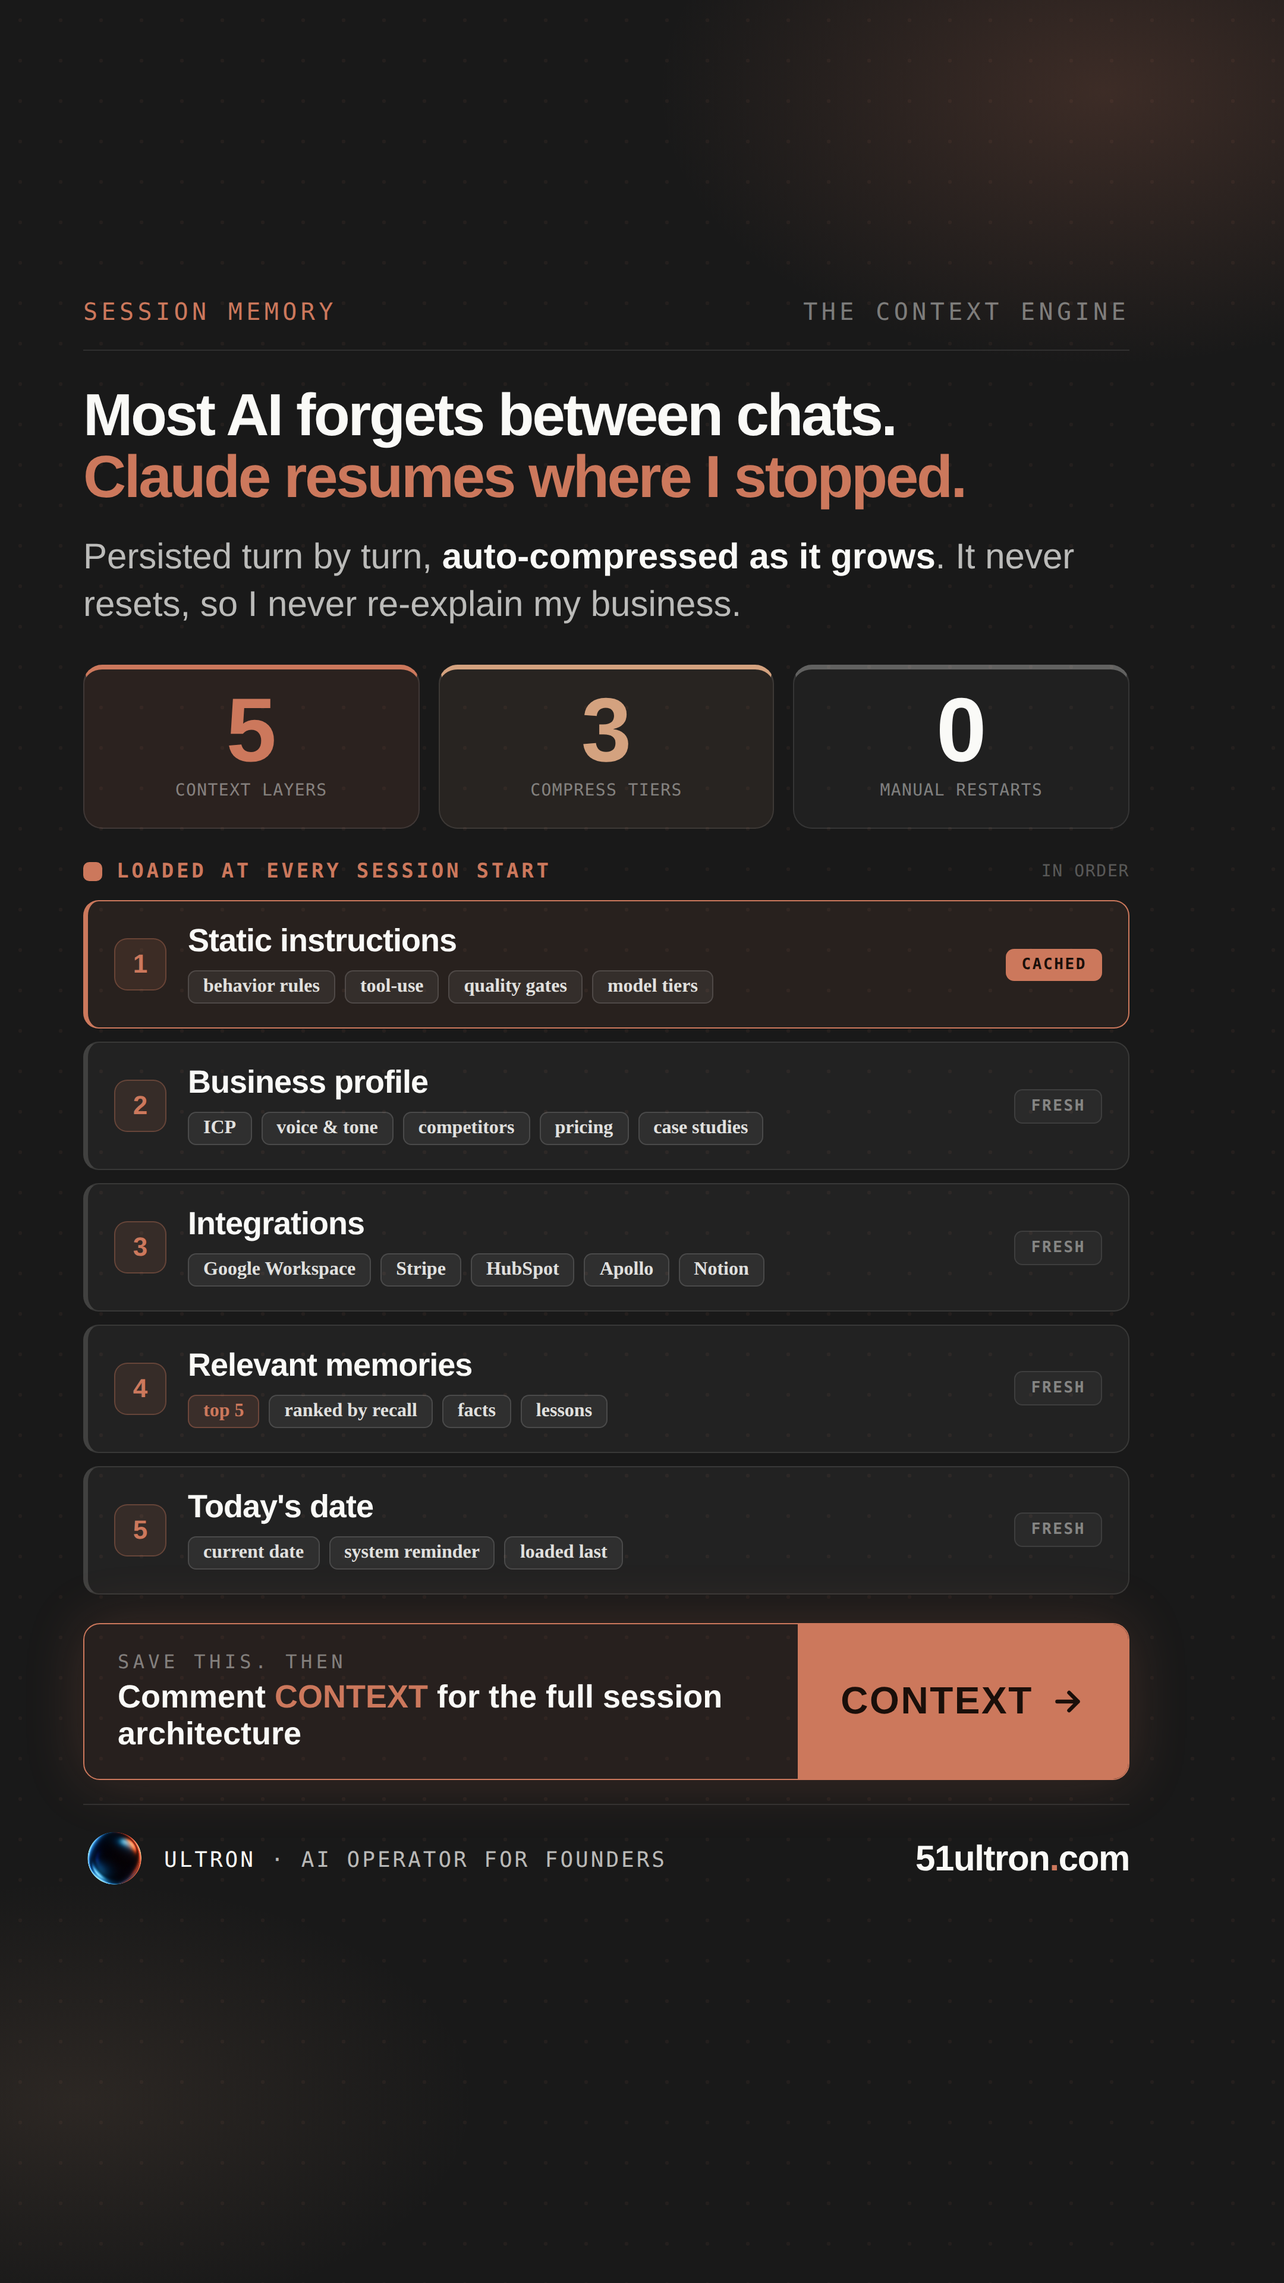
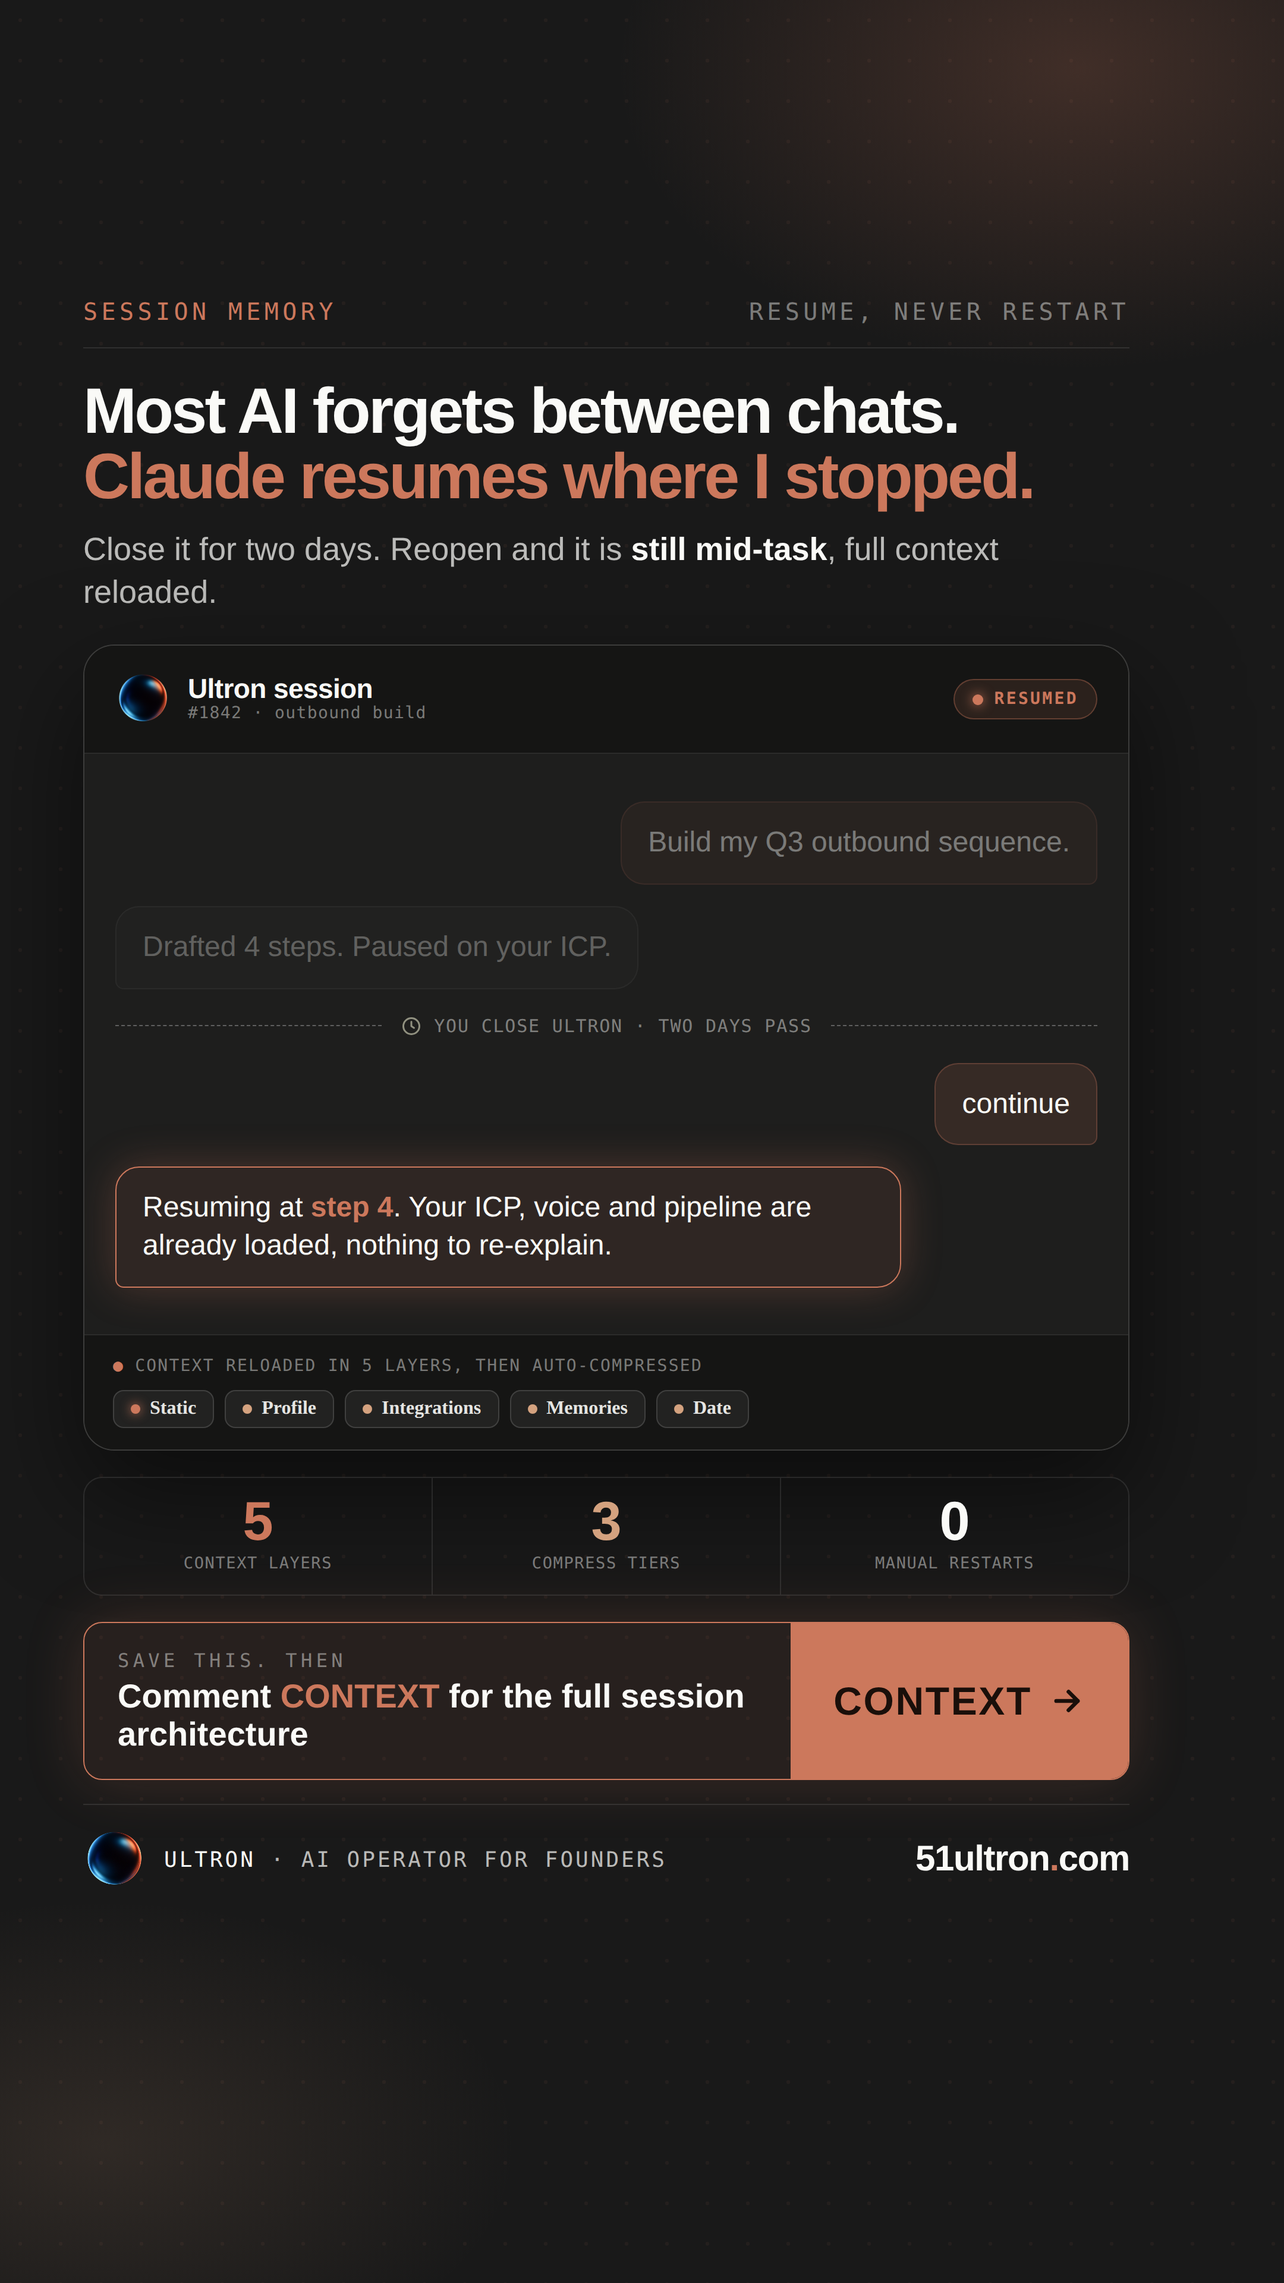
content: docs-10 TikTok infographic - redesign as a visual chat-session mockup
The dry table did not work for TikTok. Replaced with a chat-session mockup that
shows the story: faded history, a 'you close Ultron, two days pass' gap, then a
glowing live bubble resuming at step 4 with context already loaded. Chat footer
shows the 5 context layers as pills + auto-compressed; stat strip 5/3/0. Visual,
on-concept, safe box respected, mast at 250.

diff --git a/content/docs-10-sessions-tiktok-infographic.html b/content/docs-10-sessions-tiktok-infographic.html
@@ -4,64 +4,71 @@
 body{background:#0d0d0d;display:flex;justify-content:center;font-family:'DM Sans',sans-serif;-webkit-font-smoothing:antialiased;}
 .slide{width:1080px;height:1920px;background:var(--slate);position:relative;overflow:hidden;color:var(--ivory);}
 .slide::before{content:'';position:absolute;inset:0;pointer-events:none;z-index:0;background-image:radial-gradient(rgba(204,120,92,.06) 1.5px,transparent 1.6px);background-size:34px 34px;}
-.atm{position:absolute;inset:0;pointer-events:none;z-index:1;background:radial-gradient(ellipse 58% 20% at 86% 4%,rgba(204,120,92,.2) 0%,transparent 60%),radial-gradient(ellipse 52% 16% at 6% 92%,rgba(212,162,127,.1) 0%,transparent 60%);}
+.atm{position:absolute;inset:0;pointer-events:none;z-index:1;background:radial-gradient(ellipse 60% 22% at 84% 3%,rgba(204,120,92,.22) 0%,transparent 60%),radial-gradient(ellipse 54% 18% at 8% 94%,rgba(212,162,127,.12) 0%,transparent 60%);}
 .safe{position:absolute;top:250px;left:70px;right:130px;bottom:330px;z-index:2;display:flex;flex-direction:column;}
-.mast{flex-shrink:0;display:flex;align-items:center;justify-content:space-between;border-bottom:1px solid var(--rule);padding-bottom:20px;font-family:'DM Mono',monospace;font-size:20px;font-weight:500;letter-spacing:.16em;text-transform:uppercase;}
+.mast{flex-shrink:0;display:flex;align-items:center;justify-content:space-between;border-bottom:1px solid var(--rule);padding-bottom:18px;font-family:'DM Mono',monospace;font-size:20px;font-weight:500;letter-spacing:.16em;text-transform:uppercase;}
 .mast .ml{color:var(--book);}.mast .mr{color:var(--ink46);}
-.hook{flex-shrink:0;margin-top:28px;font-weight:900;font-size:50px;line-height:1.04;letter-spacing:-1.7px;color:var(--ivory);}.hook em{color:var(--book);font-style:normal;}
-.sub{flex-shrink:0;margin-top:22px;font-size:30px;font-weight:500;line-height:1.34;color:var(--ink70);}.sub b{color:var(--ivory);font-weight:700;}
-.statrow{flex-shrink:0;margin-top:30px;display:grid;grid-template-columns:repeat(3,1fr);gap:16px;}
-.sc{border:1px solid var(--rule);border-radius:16px;padding:22px 18px;text-align:center;}
-.sc.a{background:rgba(204,120,92,.1);border-top:4px solid var(--book);}.sc.b{background:rgba(212,162,127,.08);border-top:4px solid var(--kraft);}.sc.c{background:rgba(250,250,247,.03);border-top:4px solid var(--ink30);}
-.sc .n{font-weight:900;font-size:76px;line-height:.78;}.sc.a .n{color:var(--book);}.sc.b .n{color:var(--kraft);}.sc.c .n{color:var(--ivory);}
-.sc .l{font-family:'DM Mono',monospace;font-size:14px;font-weight:500;letter-spacing:.05em;text-transform:uppercase;color:var(--ink46);margin-top:12px;line-height:1.25;}
-.seclabel{flex-shrink:0;display:flex;align-items:center;gap:12px;margin:26px 0 14px;}
-.seclabel .sq{width:16px;height:16px;border-radius:5px;}.seclabel.s1 .sq{background:var(--book);}.seclabel.s2 .sq{background:var(--book-d);}
-.seclabel .t{font-family:'DM Mono',monospace;font-size:17px;font-weight:600;letter-spacing:.14em;text-transform:uppercase;}.seclabel.s1 .t{color:var(--book);}.seclabel.s2 .t{color:var(--book-d);}
-.seclabel .x{margin-left:auto;font-family:'DM Mono',monospace;font-size:14px;letter-spacing:.06em;text-transform:uppercase;color:var(--ink30);}
-.ctx{flex:1;min-height:0;display:flex;flex-direction:column;gap:11px;}
-.cr{flex:1;display:flex;align-items:center;gap:18px;background:rgba(250,250,247,.045);border:1px solid var(--rule);border-left:4px solid var(--ink14);border-radius:13px;padding:14px 22px;}
-.cr.hi{border-color:var(--book);border-left-color:var(--book);background:rgba(204,120,92,.09);}
-.cr .n{width:44px;height:44px;border-radius:11px;background:rgba(204,120,92,.12);border:1px solid rgba(204,120,92,.32);color:var(--book);font-weight:900;font-size:22px;display:flex;align-items:center;justify-content:center;flex-shrink:0;}
-.cr .bd{flex:1;min-width:0;}
-.cr .nm{font-weight:800;font-size:27px;letter-spacing:-.5px;color:var(--ivory);line-height:1;}
-.cr .chips{display:flex;flex-wrap:wrap;gap:8px;margin-top:11px;}
-.ch{font-family:'DM Sans';font-size:16px;font-weight:600;color:rgba(250,250,247,.9);background:rgba(250,250,247,.06);border:1px solid var(--ink14);border-radius:7px;padding:5px 12px;line-height:1;}
-.ch.k{color:var(--book);background:rgba(204,120,92,.14);border-color:rgba(204,120,92,.36);font-weight:800;}
-.cr .tg{flex-shrink:0;font-family:'DM Mono',monospace;font-size:13px;font-weight:600;letter-spacing:.1em;text-transform:uppercase;padding:6px 13px;border-radius:7px;white-space:nowrap;}
-.tg-c{color:#1a0f0a;background:var(--book);}.tg-f{color:var(--ink46);border:1px solid var(--rule);background:rgba(250,250,247,.04);}
-.cstrip{flex-shrink:0;display:grid;grid-template-columns:1fr 1fr 1fr;gap:14px;}
-.cc{border:1px solid var(--rule);border-top:4px solid var(--book);border-radius:14px;padding:20px 20px 18px;}
-.cc.cost{border-top-color:var(--book-d);background:rgba(200,70,35,.06);}
-.cc .cn{font-weight:900;font-size:60px;line-height:.78;color:var(--book);}.cc.cost .cn{color:var(--book-d);}
-.cc .cn span{font-size:15px;font-family:'DM Mono',monospace;color:var(--ink46);font-weight:600;margin-left:7px;letter-spacing:.02em;}
-.cc .ce{font-weight:800;font-size:23px;letter-spacing:-.4px;color:var(--ivory);margin-top:13px;line-height:1.02;}
-.cc .cd{font-size:16px;font-weight:500;color:var(--ink70);line-height:1.3;margin-top:8px;}
-.cta{flex-shrink:0;margin-top:24px;display:flex;align-items:stretch;border:1px solid var(--book);border-radius:14px;overflow:hidden;box-shadow:0 0 50px rgba(204,120,92,.2);}
+.hook{flex-shrink:0;margin-top:26px;font-weight:900;font-size:54px;line-height:1.02;letter-spacing:-1.9px;color:var(--ivory);}.hook em{color:var(--book);font-style:normal;}
+.sub{flex-shrink:0;margin-top:16px;font-size:27px;font-weight:500;line-height:1.32;color:var(--ink70);}.sub b{color:var(--ivory);font-weight:700;}
+/* ---- chat session mockup ---- */
+.chat{flex:1;min-height:0;margin-top:26px;display:flex;flex-direction:column;border:1px solid var(--ink14);border-radius:26px;overflow:hidden;background:#1e1e1d;box-shadow:0 36px 90px rgba(0,0,0,.5);}
+.chd{flex-shrink:0;display:flex;align-items:center;gap:15px;padding:22px 26px;border-bottom:1px solid var(--rule);background:#151514;}
+.chd .av{width:46px;height:46px;border-radius:50%;object-fit:cover;flex-shrink:0;}
+.chd .ct b{display:block;font-size:23px;font-weight:800;color:var(--ivory);letter-spacing:-.3px;line-height:1;}
+.chd .ct span{font-family:'DM Mono',monospace;font-size:14px;color:var(--ink46);letter-spacing:.05em;}
+.chd .rz{margin-left:auto;display:flex;align-items:center;gap:9px;font-family:'DM Mono',monospace;font-size:14px;font-weight:600;letter-spacing:.12em;text-transform:uppercase;color:var(--book);background:rgba(204,120,92,.12);border:1px solid var(--book-bd,rgba(204,120,92,.34));padding:8px 15px;border-radius:30px;}
+.chd .rz i{width:9px;height:9px;border-radius:50%;background:var(--book);box-shadow:0 0 10px var(--book);}
+.cbody{flex:1;min-height:0;padding:26px;display:flex;flex-direction:column;gap:18px;justify-content:center;}
+.msg{max-width:80%;padding:18px 22px;border-radius:20px;font-size:24px;font-weight:500;line-height:1.32;}
+.msg.u{align-self:flex-end;background:rgba(204,120,92,.14);border:1px solid rgba(204,120,92,.28);color:var(--ivory);border-bottom-right-radius:7px;}
+.msg.a{align-self:flex-start;background:var(--slate2);border:1px solid var(--rule);color:var(--ink70);border-bottom-left-radius:7px;}
+.msg.old{opacity:.42;}
+.msg.live{align-self:flex-start;background:rgba(204,120,92,.1);border:1px solid var(--book);color:var(--ivory);border-bottom-left-radius:7px;box-shadow:0 0 34px rgba(204,120,92,.28);}
+.msg.live b{color:var(--book);font-weight:800;}
+.gap{display:flex;align-items:center;gap:16px;margin:4px 0;}
+.gap .ln{flex:1;border-top:1px dashed var(--ink30);}
+.gap .gl{display:flex;align-items:center;gap:10px;font-family:'DM Mono',monospace;font-size:15px;font-weight:500;letter-spacing:.06em;text-transform:uppercase;color:var(--ink46);white-space:nowrap;}
+.gap .gl svg{width:18px;height:18px;stroke:var(--cloud);stroke-width:2;fill:none;stroke-linecap:round;stroke-linejoin:round;}
+.cfoot{flex-shrink:0;padding:18px 24px;border-top:1px solid var(--rule);background:#151514;}
+.cfoot .fl{font-family:'DM Mono',monospace;font-size:14px;font-weight:500;letter-spacing:.08em;text-transform:uppercase;color:var(--ink46);margin-bottom:12px;display:flex;align-items:center;gap:9px;}
+.cfoot .fl em{color:var(--book);font-style:normal;}
+.cfoot .pills{display:flex;flex-wrap:wrap;gap:9px;}
+.pl{font-family:'DM Sans';font-size:16px;font-weight:700;color:rgba(250,250,247,.92);background:rgba(250,250,247,.06);border:1px solid var(--ink14);border-radius:9px;padding:7px 14px;line-height:1;display:flex;align-items:center;gap:8px;}
+.pl i{width:8px;height:8px;border-radius:50%;background:var(--kraft);}
+.pl.c i{background:var(--book);box-shadow:0 0 9px var(--book);}
+/* ---- stat strip ---- */
+.stat{flex-shrink:0;margin-top:22px;display:flex;align-items:stretch;border:1px solid var(--rule);border-radius:16px;overflow:hidden;}
+.stat .s{flex:1;padding:18px 14px;text-align:center;}.stat .s+.s{border-left:1px solid var(--rule);}
+.stat .s b{display:block;font-weight:900;font-size:46px;line-height:.8;}.stat .s.a b{color:var(--book);}.stat .s.b b{color:var(--kraft);}.stat .s.c b{color:var(--ivory);}
+.stat .s span{font-family:'DM Mono',monospace;font-size:13.5px;font-weight:500;letter-spacing:.06em;text-transform:uppercase;color:var(--ink46);margin-top:9px;display:block;}
+.cta{flex-shrink:0;margin-top:22px;display:flex;align-items:stretch;border:1px solid var(--book);border-radius:16px;overflow:hidden;box-shadow:0 0 50px rgba(204,120,92,.2);}
 .cta-l{flex:1;padding:22px 28px;display:flex;flex-direction:column;justify-content:center;gap:5px;background:rgba(204,120,92,.08);}
 .cta-k{font-family:'DM Mono',monospace;font-size:16px;font-weight:500;letter-spacing:.2em;text-transform:uppercase;color:var(--ink46);}
-.cta-t{font-size:27px;font-weight:800;color:var(--ivory);line-height:1.15;}.cta-t b{color:var(--book);font-weight:900;}
-.cta-chip{flex-shrink:0;padding:0 36px;gap:14px;background:var(--book);display:flex;align-items:center;font-size:32px;font-weight:900;letter-spacing:.04em;text-transform:uppercase;color:#1a0f0a;}
-.cta-chip svg{width:30px;height:30px;stroke:#1a0f0a;stroke-width:2.6;fill:none;stroke-linecap:round;stroke-linejoin:round;}
+.cta-t{font-size:28px;font-weight:800;color:var(--ivory);line-height:1.12;}.cta-t b{color:var(--book);font-weight:900;}
+.cta-chip{flex-shrink:0;padding:0 36px;gap:14px;background:var(--book);display:flex;align-items:center;font-size:33px;font-weight:900;letter-spacing:.04em;text-transform:uppercase;color:#1a0f0a;}
+.cta-chip svg{width:31px;height:31px;stroke:#1a0f0a;stroke-width:2.6;fill:none;stroke-linecap:round;stroke-linejoin:round;}
 .ftr{flex-shrink:0;margin-top:20px;display:flex;align-items:center;justify-content:space-between;gap:18px;border-top:1px solid var(--rule);padding-top:20px;}
-.fl{display:flex;align-items:center;gap:16px;}.flogo{width:52px;height:52px;border-radius:50%;object-fit:cover;}
+.fl2{display:flex;align-items:center;gap:16px;}.flogo{width:52px;height:52px;border-radius:50%;object-fit:cover;}
 .ftx{font-family:'DM Mono',monospace;font-size:18px;font-weight:400;letter-spacing:.11em;text-transform:uppercase;color:var(--ink70);}.ftx b{color:var(--ivory);font-weight:500;}
 .furl{font-weight:900;font-size:30px;letter-spacing:-.7px;color:var(--ivory);}.furl em{color:var(--book);font-style:normal;}
 </style></head><body>
 <div class="slide"><div class="atm"></div><div class="safe">
-  <div class="mast"><span class="ml">Session Memory</span><span class="mr">The context engine</span></div>
+  <div class="mast"><span class="ml">Session Memory</span><span class="mr">Resume, never restart</span></div>
   <div class="hook">Most AI forgets between chats.<br><em>Claude resumes where I stopped.</em></div>
-  <div class="sub">Persisted turn by turn, <b>auto-compressed as it grows</b>. It never resets, so I never re-explain my business.</div>
-  <div class="statrow"><div class="sc a"><div class="n">5</div><div class="l">context layers</div></div><div class="sc b"><div class="n">3</div><div class="l">compress tiers</div></div><div class="sc c"><div class="n">0</div><div class="l">manual restarts</div></div></div>
-  <div class="seclabel s1"><span class="sq"></span><span class="t">Loaded at every session start</span><span class="x">in order</span></div>
-  <div class="ctx">
-    <div class="cr hi"><div class="n">1</div><div class="bd"><div class="nm">Static instructions</div><div class="chips"><span class="ch">behavior rules</span><span class="ch">tool-use</span><span class="ch">quality gates</span><span class="ch">model tiers</span></div></div><div class="tg tg-c">Cached</div></div>
-    <div class="cr"><div class="n">2</div><div class="bd"><div class="nm">Business profile</div><div class="chips"><span class="ch">ICP</span><span class="ch">voice &amp; tone</span><span class="ch">competitors</span><span class="ch">pricing</span><span class="ch">case studies</span></div></div><div class="tg tg-f">Fresh</div></div>
-    <div class="cr"><div class="n">3</div><div class="bd"><div class="nm">Integrations</div><div class="chips"><span class="ch">Google Workspace</span><span class="ch">Stripe</span><span class="ch">HubSpot</span><span class="ch">Apollo</span><span class="ch">Notion</span></div></div><div class="tg tg-f">Fresh</div></div>
-    <div class="cr"><div class="n">4</div><div class="bd"><div class="nm">Relevant memories</div><div class="chips"><span class="ch k">top 5</span><span class="ch">ranked by recall</span><span class="ch">facts</span><span class="ch">lessons</span></div></div><div class="tg tg-f">Fresh</div></div>
-    <div class="cr"><div class="n">5</div><div class="bd"><div class="nm">Today's date</div><div class="chips"><span class="ch">current date</span><span class="ch">system reminder</span><span class="ch">loaded last</span></div></div><div class="tg tg-f">Fresh</div></div>
+  <div class="sub">Close it for two days. Reopen and it is <b>still mid-task</b>, full context reloaded.</div>
+  <div class="chat">
+    <div class="chd"><img class="av" src="__LOGO_URI__" alt="Ultron"><div class="ct"><b>Ultron session</b><span>#1842 &middot; outbound build</span></div><div class="rz"><i></i>Resumed</div></div>
+    <div class="cbody">
+      <div class="msg u old">Build my Q3 outbound sequence.</div>
+      <div class="msg a old">Drafted 4 steps. Paused on your ICP.</div>
+      <div class="gap"><span class="ln"></span><span class="gl"><svg viewBox="0 0 24 24"><circle cx="12" cy="12" r="9"/><path d="M12 7v5l3 2"/></svg>You close Ultron &middot; two days pass</span><span class="ln"></span></div>
+      <div class="msg u">continue</div>
+      <div class="msg live">Resuming at <b>step 4</b>. Your ICP, voice and pipeline are already loaded, nothing to re-explain.</div>
+    </div>
+    <div class="cfoot"><div class="fl"><em>&#9679;</em> Context reloaded in 5 layers, then auto-compressed</div><div class="pills"><span class="pl c"><i></i>Static</span><span class="pl"><i></i>Profile</span><span class="pl"><i></i>Integrations</span><span class="pl"><i></i>Memories</span><span class="pl"><i></i>Date</span></div></div>
   </div>
+  <div class="stat"><div class="s a"><b>5</b><span>context layers</span></div><div class="s b"><b>3</b><span>compress tiers</span></div><div class="s c"><b>0</b><span>manual restarts</span></div></div>
   <div class="cta"><div class="cta-l"><div class="cta-k">Save this. Then</div><div class="cta-t">Comment <b>CONTEXT</b> for the full session architecture</div></div><div class="cta-chip">CONTEXT <svg viewBox="0 0 24 24"><path d="M5 12h14M13 6l6 6-6 6"/></svg></div></div>
-  <div class="ftr"><div class="fl"><img class="flogo" src="__LOGO_URI__" alt="Ultron"><div class="ftx"><b>ULTRON</b> &middot; AI OPERATOR FOR FOUNDERS</div></div><div class="furl">51ultron<em>.</em>com</div></div>
+  <div class="ftr"><div class="fl2"><img class="flogo" src="__LOGO_URI__" alt="Ultron"><div class="ftx"><b>ULTRON</b> &middot; AI OPERATOR FOR FOUNDERS</div></div><div class="furl">51ultron<em>.</em>com</div></div>
 </div></div>
 </body></html>
